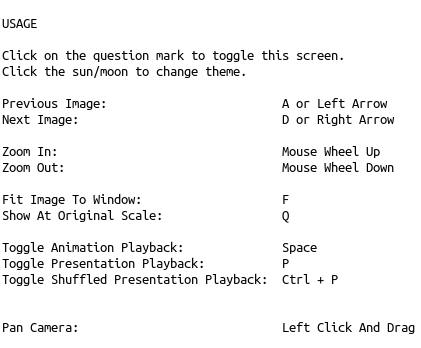
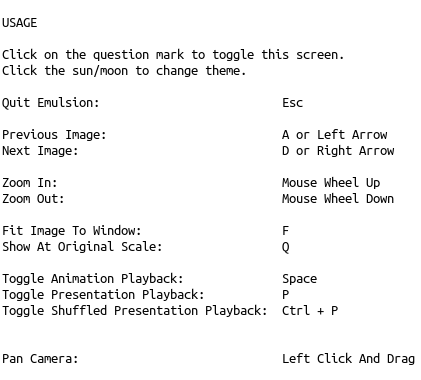
Added help screen

diff --git a/src/picture_panel.rs b/src/picture_panel.rs
@@ -20,6 +20,9 @@ use configuration::Configuration;
 use playback_manager::*;
 use window::*;
 
+use env;
+use util::*;
+
 #[derive(Copy, Clone)]
 struct Vertex {
     position: [f32; 2],
@@ -56,19 +59,15 @@ pub struct PicturePanel {
 
     file_hover_state: FileHoverState,
 
+    usage_texture: glium::texture::SrgbTexture2d,
+    show_usage: bool,
+    color_program: glium::Program,
+
     should_sleep: bool,
 }
 
 impl PicturePanel {
     pub fn new(display: &glium::Display, bottom: u32) -> Self {
-        // Clear the screen right at the start so that the user sees the background color
-        // whilst the image is loading.
-        {
-            let mut target = display.draw();
-            target.clear_color(0.9, 0.9, 0.9, 0.0);
-            target.finish().unwrap();
-        }
-
         // building the vertex buffer, which contains all the vertices that we will draw
         let vertex_buffer = {
             glium::VertexBuffer::new(
@@ -112,6 +111,23 @@ impl PicturePanel {
             },
         ).unwrap();
 
+        let color_program = program!(display,
+            140 => {
+                vertex: shaders::VERTEX_140,
+                fragment: shaders::COLOR_F_140
+            },
+
+            110 => {
+                vertex: shaders::VERTEX_110,
+                fragment: shaders::COLOR_F_110
+            },
+        ).unwrap();
+
+        let exe_parent = env::current_exe().unwrap().parent().unwrap().to_owned();
+        let resource_dir = exe_parent.join("resource");
+
+        let usage_texture = load_texture_without_cache(display, resource_dir.join("usage.png").as_ref());
+
         PicturePanel {
             vertex_buffer,
             index_buffer,
@@ -128,6 +144,10 @@ impl PicturePanel {
             },
 
             file_hover_state: FileHoverState::Idle,
+
+            usage_texture: usage_texture,
+            show_usage: false,
+            color_program: color_program,
 
             ignore_one_mouse_move: false,
 
@@ -148,6 +168,10 @@ impl PicturePanel {
 
     pub fn set_image(&mut self, image_texture: Option<Rc<glium::texture::SrgbTexture2d>>) {
         self.image_texture = image_texture;
+    }
+
+    pub fn set_show_usage(&mut self, show_usage: bool) {
+        self.show_usage = show_usage;
     }
 
     pub fn handle_event(
@@ -341,6 +365,16 @@ impl PicturePanel {
             self.fit_image_to_panel();
         }
 
+        let image_draw_params = glium::DrawParameters {
+            viewport: Some(glium::Rect {
+                left: 0,
+                bottom: self.bottom,
+                width: window_size.width as u32,
+                height: window_size.height as u32 - self.bottom,
+            }),
+            ..Default::default()
+        };
+
         if let Some(ref texture) = self.image_texture {
             let img_w = texture.width() as f32;
             let img_h = texture.height() as f32;
@@ -373,15 +407,73 @@ impl PicturePanel {
                 bright_shade: if config.light_theme { 0.95f32 } else { 0.3f32 },
                 tex: sampler
             };
-            let image_draw_params = glium::DrawParameters {
-                viewport: Some(glium::Rect {
-                    left: 0,
-                    bottom: self.bottom,
-                    width: window_size.width as u32,
-                    height: window_size.height as u32 - self.bottom,
-                }),
+            target
+                .draw(
+                    &self.vertex_buffer,
+                    &self.index_buffer,
+                    &self.program,
+                    &uniforms,
+                    &image_draw_params,
+                )
+                .unwrap();
+        }
+
+        if self.show_usage {
+            let mut usage_bg_draw_params = image_draw_params.clone();
+            usage_bg_draw_params.blend = glium::Blend {
+                color: glium::BlendingFunction::Addition {
+                    source: glium::LinearBlendingFactor::SourceAlpha,
+                    destination: glium::LinearBlendingFactor::OneMinusSourceAlpha,
+                },
                 ..Default::default()
             };
+
+            let transform = Matrix4::from_nonuniform_scale(2.0, 2.0, 1.0);
+            let transform = Matrix4::from_translation(Vector3::new(-1.0, -1.0, 0.0)) * transform;
+
+            let uniforms = uniform! {
+                matrix: Into::<[[f32; 4]; 4]>::into(transform),
+                color: [0.0, 0.0, 0.0, 0.75f32],
+            };
+
+            target
+                .draw(
+                    &self.vertex_buffer,
+                    &self.index_buffer,
+                    &self.color_program,
+                    &uniforms,
+                    &usage_bg_draw_params,
+                )
+                .unwrap();
+
+
+            let sampler = self.usage_texture.sampled();
+
+            let img_w = self.usage_texture.width() as f32;
+            let img_h = self.usage_texture.height() as f32;
+
+            // Model tranform
+            let corner_x = (self.panel_size.width as f32 * 0.5 - img_w * 0.5).floor();
+            let corner_y = (self.panel_size.height as f32 * 0.5 -img_h * 0.5).floor();
+            let transform =
+                Matrix4::from_nonuniform_scale(img_w, img_h, 1.0);
+            let transform =
+                Matrix4::from_translation(Vector3::new(corner_x, corner_y, 0.0)) * transform;
+            let transform = cgmath::ortho(
+                0.0,
+                self.panel_size.width as f32,
+                self.panel_size.height as f32,
+                0.0,
+                -1.0,
+                1.0,
+            ) * transform;
+
+            let uniforms = uniform! {
+                matrix: Into::<[[f32; 4]; 4]>::into(transform),
+                bright_shade: if config.light_theme { 0.95f32 } else { 0.3f32 },
+                tex: sampler
+            };
+
             target
                 .draw(
                     &self.vertex_buffer,

diff --git a/src/main.rs b/src/main.rs
@@ -44,6 +44,8 @@ use window::*;
 mod configuration;
 use configuration::Configuration;
 
+mod util;
+
 // ========================================================
 // Glorious main function
 // ========================================================
@@ -75,7 +77,7 @@ struct Program<'a> {
     config_file_path: PathBuf,
 
     window: &'a mut Window,
-    picture_panel: &'a mut PicturePanel,
+    picture_panel: &'a RefCell<PicturePanel>,
     playback_manager: &'a RefCell<PlaybackManager>,
     bottom_panel: BottomPanel<'a>,
 }
@@ -112,6 +114,15 @@ impl<'a> Program<'a> {
 
         let mut events_loop = glutin::EventsLoop::new();
         let mut window = Window::new(&events_loop, &config.borrow());
+        // Clear the screen right at the start so that the user sees the background color
+        // whilst the image is loading.
+        {
+            let mut target = window.display().draw();
+            let config = config.borrow();
+            let bg_color = Self::get_bg_color(config.light_theme);
+            target.clear_color(bg_color[0], bg_color[1], bg_color[2], bg_color[3]);
+            target.finish().unwrap();
+        }
         let mut picture_panel = PicturePanel::new(window.display(), BottomPanel::HEIGHT as u32);
         let playback_manager = RefCell::new(PlaybackManager::new());
 
@@ -129,13 +140,14 @@ impl<'a> Program<'a> {
         // Just quickly display the loaded image here before we load the remaining parts of the program
         Self::draw_picture(&mut window, &mut picture_panel, &config.borrow());
 
-        let bottom_panel = BottomPanel::new(&mut window, &playback_manager, &config);
+        let picture_panel = RefCell::new(picture_panel);
+        let bottom_panel = BottomPanel::new(&mut window, &picture_panel, &playback_manager, &config);
 
         let mut program = Program {
             configuration: &config,
             config_file_path: config_file_path.clone(),
             window: &mut window,
-            picture_panel: &mut picture_panel,
+            picture_panel: &picture_panel,
             playback_manager: &playback_manager,
             bottom_panel,
         };
@@ -179,21 +191,21 @@ impl<'a> Program<'a> {
                 }
 
                 // Pre events
-                self.picture_panel.pre_events();
+                self.picture_panel.borrow_mut().pre_events();
 
                 // Dispatch event
                 self.bottom_panel.handle_event(&event, &self.window);
                 // Playback manager is borrowed only after the bottom panel button callbacks
                 // are finished
                 let mut playback_manager = self.playback_manager.borrow_mut();
-                self.picture_panel
+                self.picture_panel.borrow_mut()
                     .handle_event(&event, &mut self.window, &mut playback_manager);
 
                 // Update screen after a resize event or refresh
                 if let Event::WindowEvent { event, .. } = event {
                     match event {
                         WindowEvent::Resized(..) | WindowEvent::Refresh => {
-                            self.draw(&playback_manager)
+                            self.draw(&playback_manager, &mut self.picture_panel.borrow_mut())
                         }
                         _ => (),
                     }
@@ -201,12 +213,12 @@ impl<'a> Program<'a> {
             });
 
             let mut playback_manager = self.playback_manager.borrow_mut();
+            let mut picture_panel = self.picture_panel.borrow_mut();
             let load_requested = *playback_manager.load_request() != LoadRequest::None;
             playback_manager.update_image(&mut self.window);
-            self.picture_panel
-                .set_image(playback_manager.image_texture().ref_clone());
-
-            self.draw(&playback_manager);
+            picture_panel.set_image(playback_manager.image_texture().ref_clone());
+            
+            self.draw(&playback_manager, &mut picture_panel);
 
             // Update dirctory after draw
             if load_requested {
@@ -217,7 +229,7 @@ impl<'a> Program<'a> {
 
             let should_sleep = {
                 playback_manager.should_sleep()
-                    && self.picture_panel.should_sleep()
+                    && picture_panel.should_sleep()
                     && !load_requested
             };
 
@@ -229,7 +241,7 @@ impl<'a> Program<'a> {
         }
     }
 
-    fn draw(&mut self, playback_manager: &PlaybackManager) {
+    fn draw(&mut self, playback_manager: &PlaybackManager, picture_panel: &mut PicturePanel) {
         match self.window.display().gl_window().get_inner_size() {
             Some(window_size) => if window_size.width <= 0.0 || window_size.height <= 0.0 {
                 return;
@@ -243,7 +255,7 @@ impl<'a> Program<'a> {
         let bg_color = Self::get_bg_color(config.light_theme);
         target.clear_color(bg_color[0], bg_color[1], bg_color[2], bg_color[3]);
 
-        self.picture_panel.draw(&mut target, &self.window, &config);
+        picture_panel.draw(&mut target, &self.window, &config);
         self.bottom_panel
             .draw(&mut target, playback_manager, &config);
 

diff --git a/src/bottom_panel.rs b/src/bottom_panel.rs
@@ -1,36 +1,22 @@
 use std::cell::RefCell;
 use std::env;
-use std::path::Path;
 use std::rc::Rc;
 
 use glium;
 use glium::glutin;
 use glium::glutin::WindowEvent;
-use glium::texture::{RawImage2d, SrgbTexture2d};
-
-use image;
+use glium::texture::SrgbTexture2d;
 
 use cgmath::{Vector2, Vector3};
 
+use util::*;
 use configuration::Configuration;
+use picture_panel::PicturePanel;
 use playback_manager::{LoadRequest, PlaybackManager};
 use ui::slider::Slider;
 use ui::toggle::Toggle;
 use ui::Ui;
 use window::*;
-
-fn load_texture_without_cache(display: &glium::Display, image_path: &Path) -> SrgbTexture2d {
-    let image = image::open(image_path).unwrap().to_rgba();
-
-    texture_from_image(display, image)
-}
-
-fn texture_from_image(display: &glium::Display, image: image::RgbaImage) -> SrgbTexture2d {
-    let image_dimensions = image.dimensions();
-    let image = RawImage2d::from_raw_rgba(image.into_raw(), image_dimensions);
-
-    SrgbTexture2d::with_mipmaps(display, image, glium::texture::MipmapsOption::NoMipmap).unwrap()
-}
 
 fn set_theme<'callback_ref>(
     light_theme: bool,
@@ -74,6 +60,7 @@ impl<'callback_ref> BottomPanel<'callback_ref> {
 
     pub fn new(
         window: &mut Window,
+        picture_panel: &'callback_ref RefCell<PicturePanel>,
         playback_manager: &'callback_ref RefCell<PlaybackManager>,
         configuration: &'callback_ref RefCell<Configuration>,
     ) -> Self {
@@ -117,12 +104,17 @@ impl<'callback_ref> BottomPanel<'callback_ref> {
             });
         }
 
+        
         let help_toggle =
             ui.create_toggle(question.clone(), Vector2::new(32f32, 4f32), false, || {});
 
         {
+            let help_visible = RefCell::new(false);
             help_toggle.borrow_mut().set_callback(move || {
-
+                //let mut help_toggle = help_toggle_clone.borrow_mut();
+                let mut help_visible = help_visible.borrow_mut();
+                *help_visible = !*help_visible;
+                picture_panel.borrow_mut().set_show_usage(*help_visible);
             });
         }
 
@@ -151,6 +143,7 @@ impl<'callback_ref> BottomPanel<'callback_ref> {
             theme_toggle.borrow_mut().set_callback(move || {
                 let mut theme_toggle = theme_toggle_clone.borrow_mut();
                 let mut config = configuration.borrow_mut();
+
                 config.light_theme = !config.light_theme;
                 set_theme(
                     config.light_theme,

diff --git a/src/util.rs b/src/util.rs
@@ -1,0 +1,20 @@
+
+use std::path::Path;
+
+use glium;
+use glium::texture::{RawImage2d, SrgbTexture2d};
+
+use image;
+
+pub fn load_texture_without_cache(display: &glium::Display, image_path: &Path) -> SrgbTexture2d {
+    let image = image::open(image_path).unwrap().to_rgba();
+
+    texture_from_image(display, image)
+}
+
+pub fn texture_from_image(display: &glium::Display, image: image::RgbaImage) -> SrgbTexture2d {
+    let image_dimensions = image.dimensions();
+    let image = RawImage2d::from_raw_rgba(image.into_raw(), image_dimensions);
+
+    SrgbTexture2d::with_mipmaps(display, image, glium::texture::MipmapsOption::NoMipmap).unwrap()
+}
